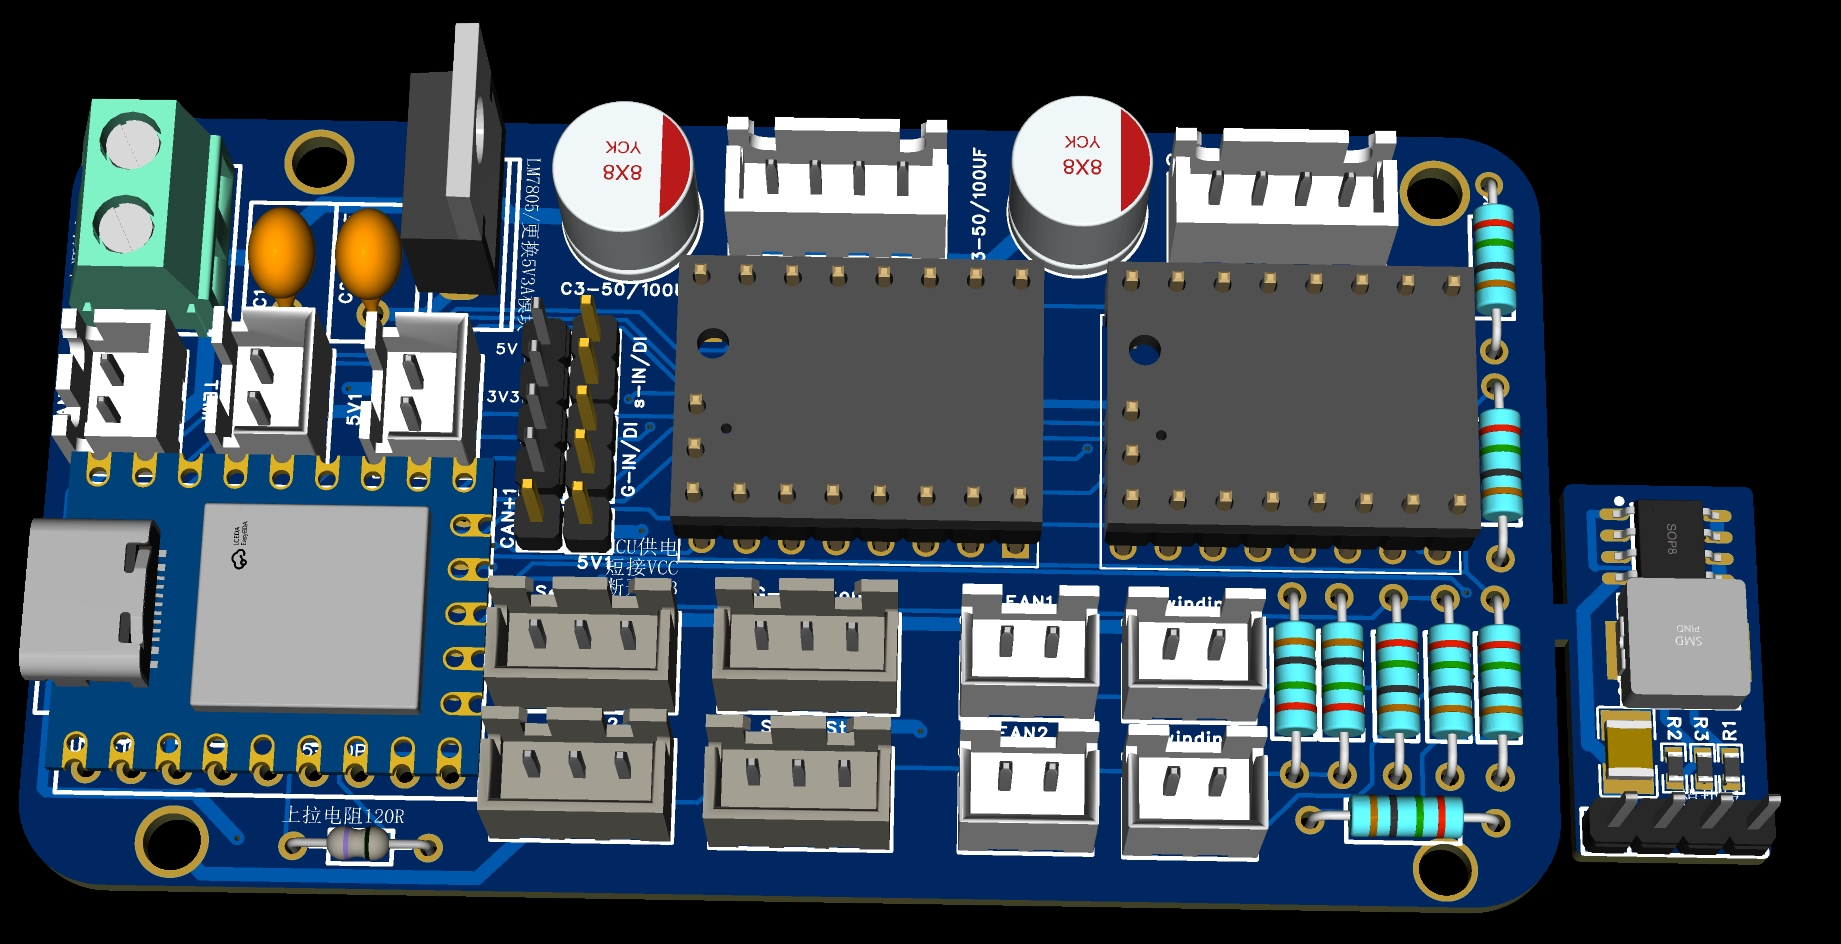
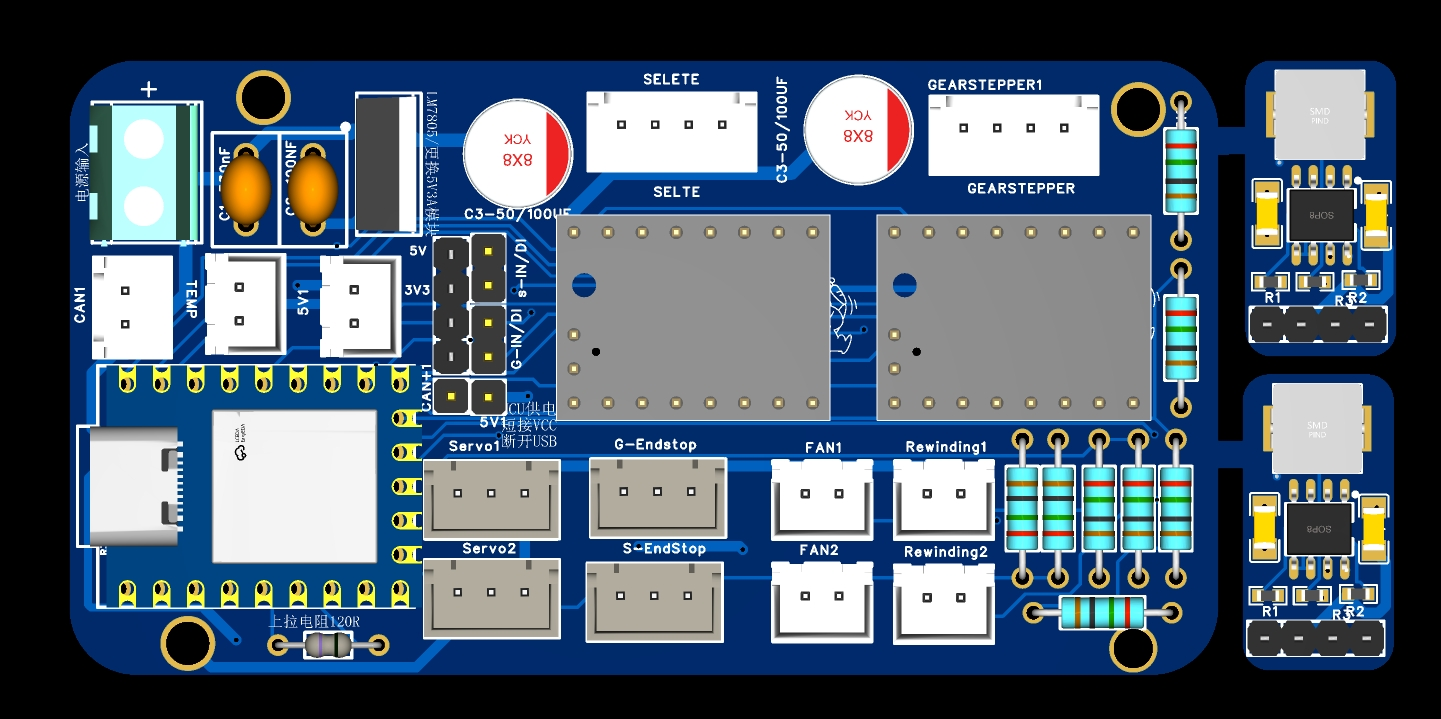
增加图片，不准备做外壳，没时间

diff --git a/兔子板可打板/readme.md b/兔子板可打板/readme.md
@@ -151,9 +151,9 @@ RP2040贴片双舵机加can引脚图
 # 贴片主板全图  
 ![全贴片正面.png](./img/全贴片正面.png)  
 ![全贴片背面.png](./img/全贴片背面.png) 
-
-
-
+# 新增拼板文件
+![新增拼版正面](./img/新增拼版正面.png)
+![新增拼版背面](./img/新增拼版反面.png)
 ##  2023-09-24 RP2040-zero更新新增7.2V及热敏电阻位置不要问为啥因为我还没验证  
 ##  2023-09-29 RP2040-zero-V1.3原版存在UART无法使用，风扇电路短路问题，修改文件更改UART模式  
 
@@ -166,3 +166,4 @@ RP2040贴片双舵机加can引脚图
 ##  2023-11-16 RP2040-zero1.5.2更新外壳文件  
 ##  2024-05-12 RP2040-zero 1.6.2 版本更新，同时增加新版全贴片主板   
 ##  2024-06-16 RP2040-zero 1.6.2 贴片版本优化，新增合宙RP2040主板布局（暂时没时间截图就不放了）  
+##  2024-07-07 RP2040-zero 1.6.2 贴片版本优化，新增合并版本文件，并完成相关验证，疯狂叠加电源板（不想买2.5的DCDC板可以自行购买零件）   
